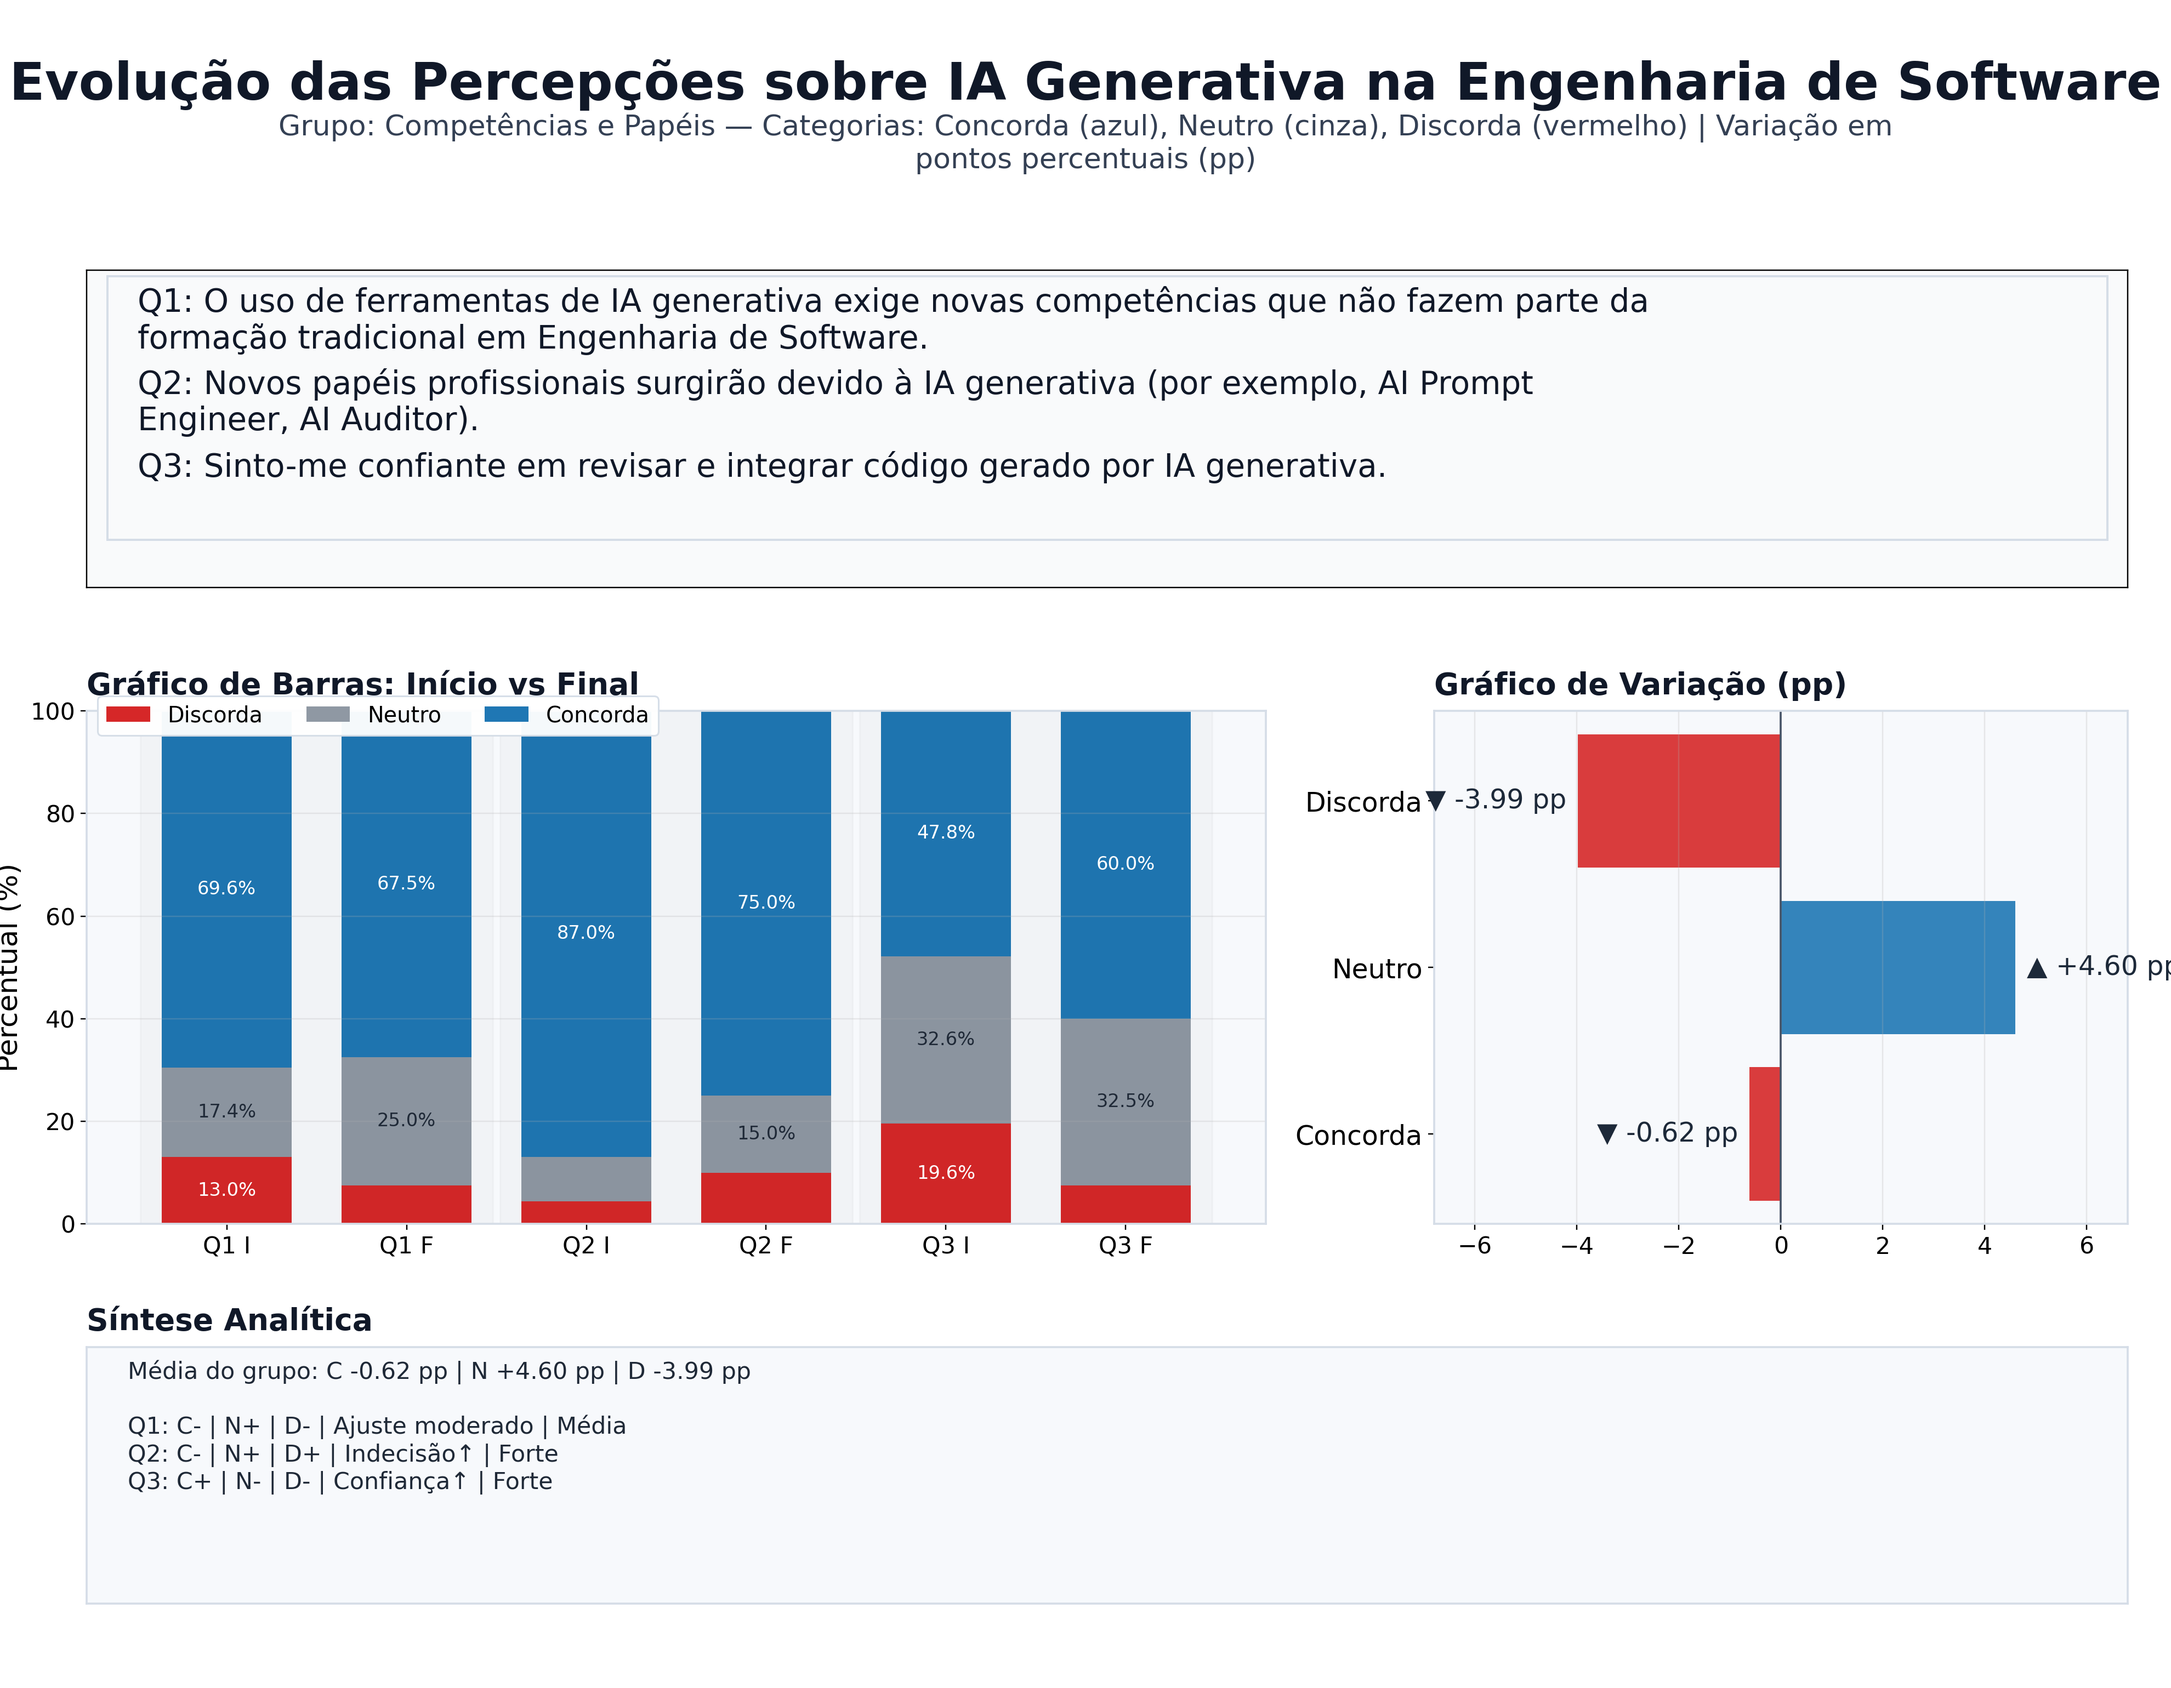
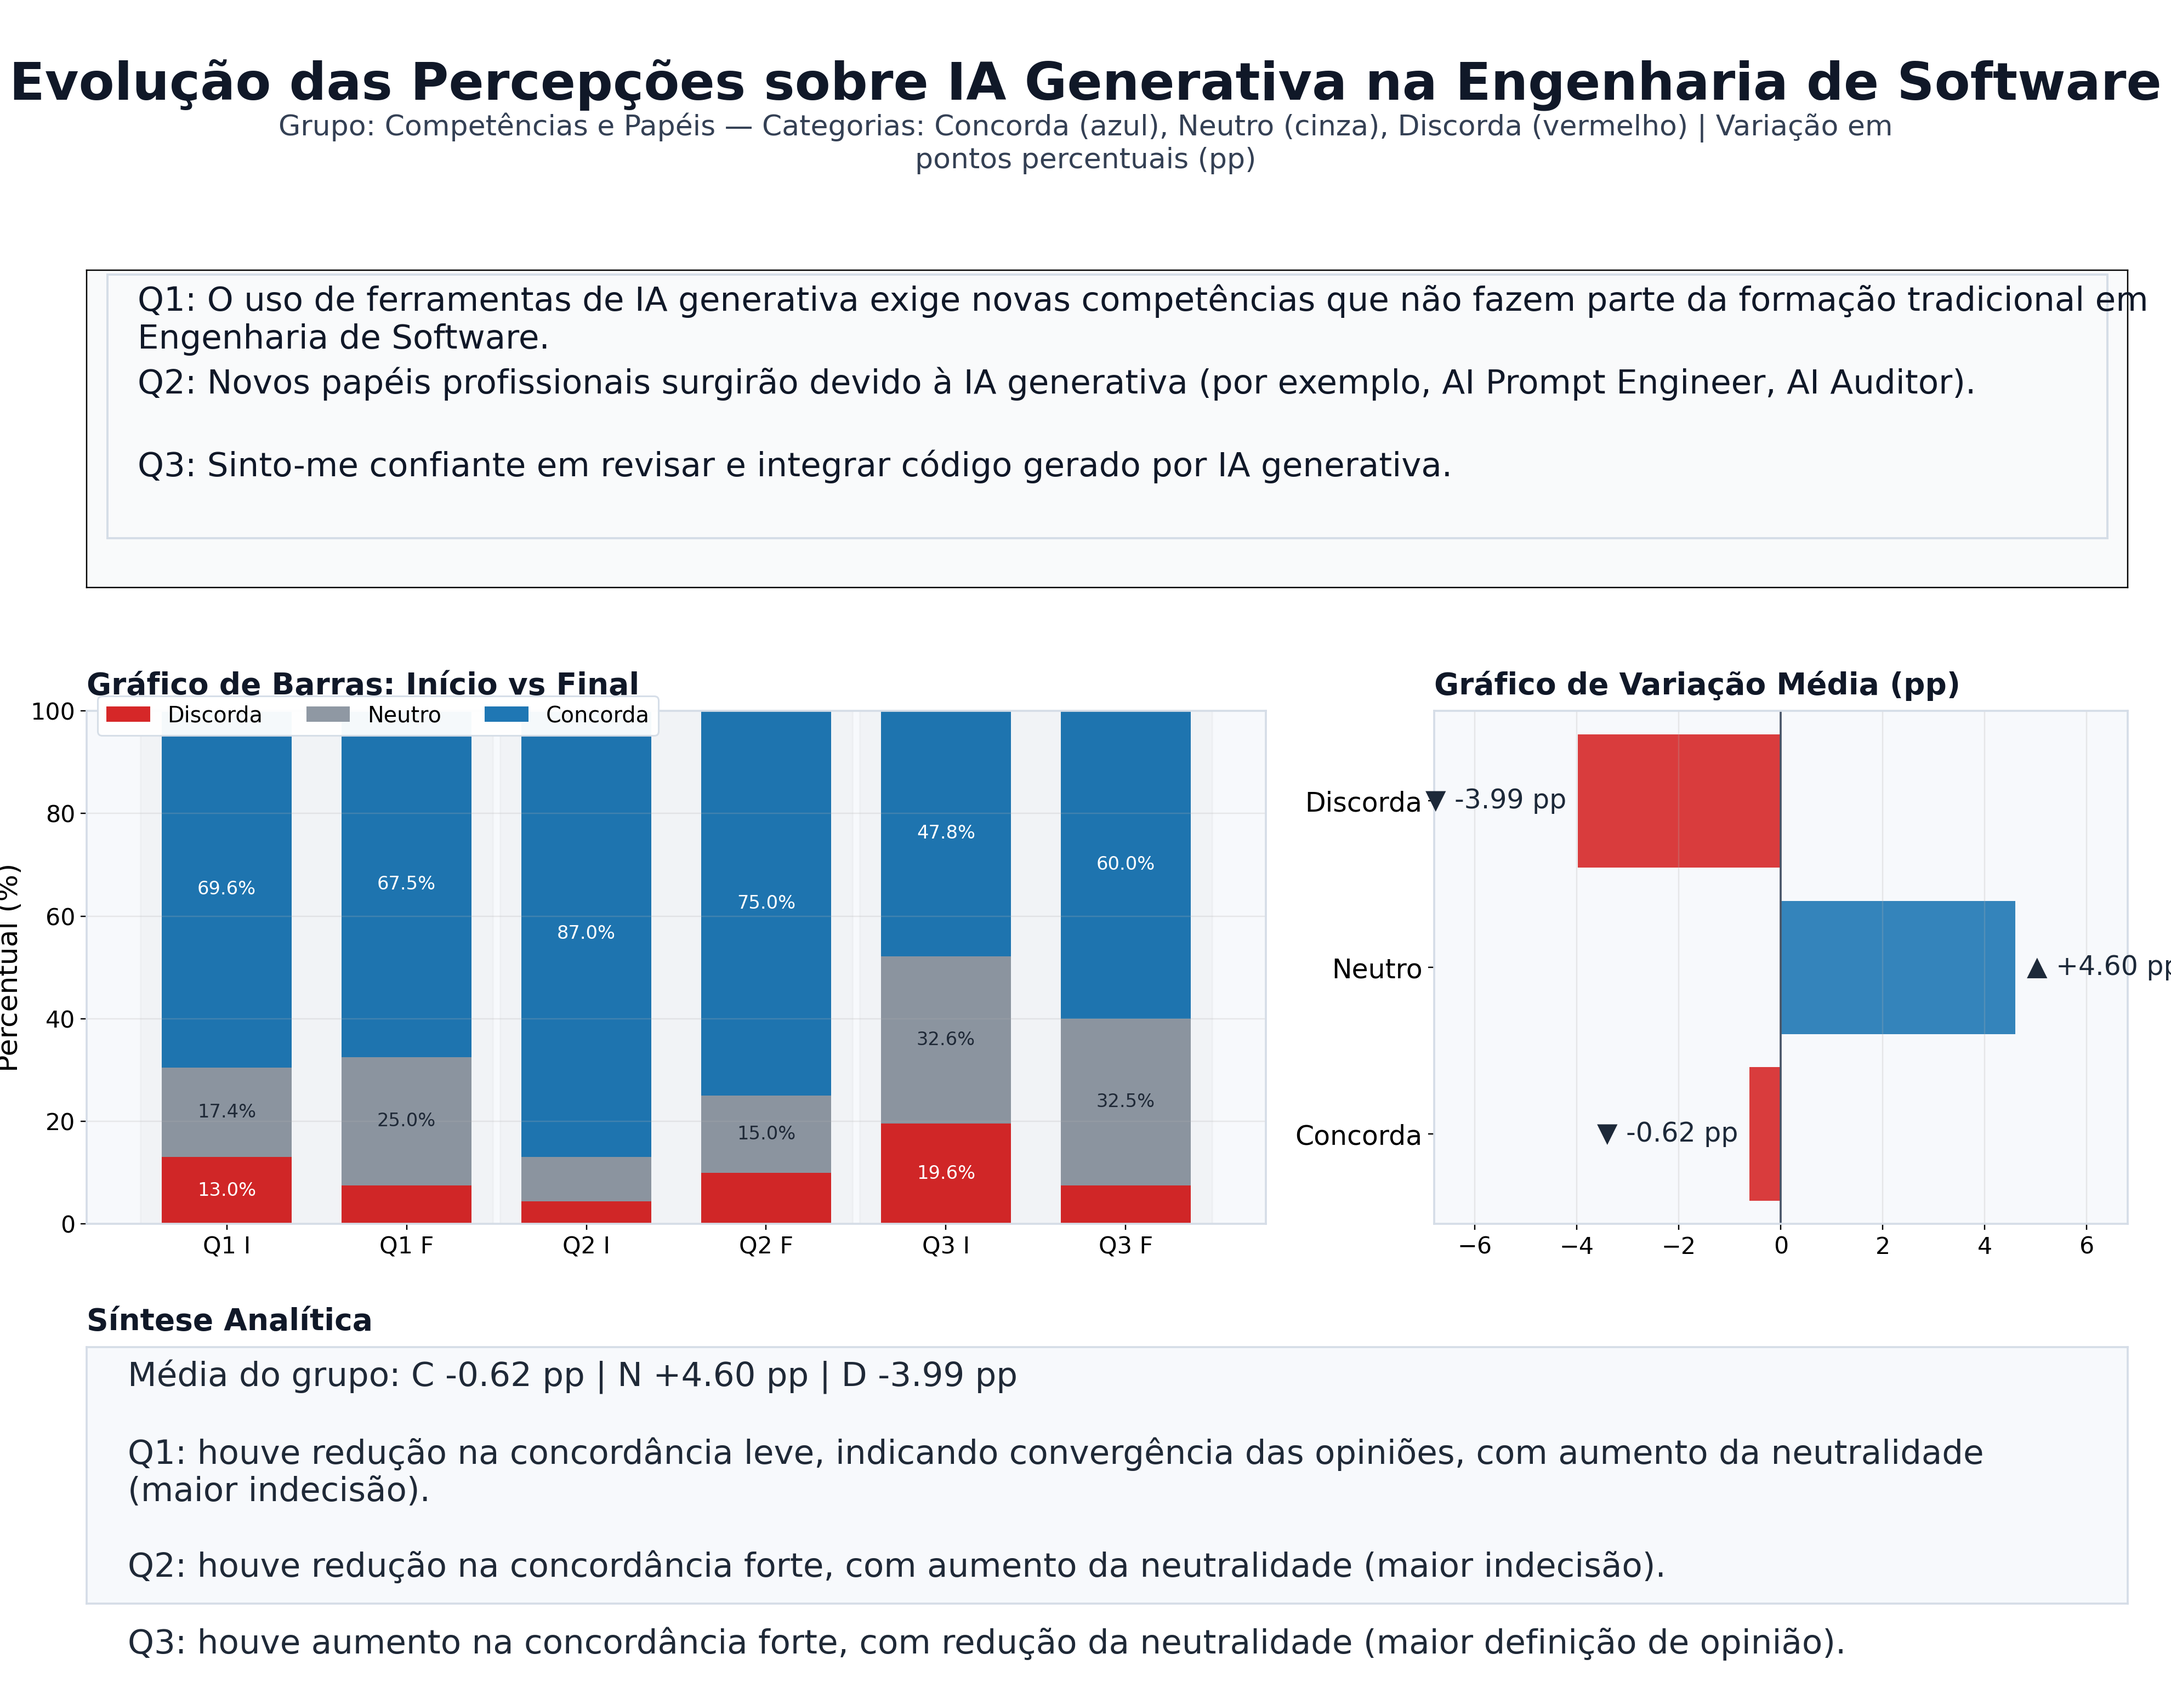
v5

diff --git a/serpro/generate_group_panels_v5.py b/serpro/generate_group_panels_v5.py
@@ -12,6 +12,7 @@ Saida:
 from __future__ import annotations
 
 import csv
+import re
 import textwrap
 import unicodedata
 from pathlib import Path
@@ -79,6 +80,22 @@ def wrap_lines(lines: list[str], width: int) -> list[str]:
     for line in lines:
         wrapped.extend(textwrap.wrap(line, width=width) or [line])
     return wrapped
+
+
+def clean_analysis_text(text: str) -> str:
+    """
+    Remove trechos de enunciado duplicados presentes em 'Análise'.
+    1) Exclui tudo que inicia em '##' e vai até imediatamente antes de 'Início do semestre'.
+    2) Mantém somente o trecho após a expressão-chave 'Análise:' (ou 'Analise:').
+    """
+    if not text:
+        return ""
+    cleaned = re.sub(r"##.*?(?=In[ií]cio do semestre)", "", text, flags=re.DOTALL)
+    match = re.search(r"An[aá]lise\s*:\s*(.*)", cleaned, flags=re.IGNORECASE | re.DOTALL)
+    if match:
+        cleaned = match.group(1)
+    cleaned = cleaned.strip(" \n:-")
+    return cleaned if cleaned else text.strip()
 
 
 def compact_question_map(rows: list[dict[str, str]], width: int = 130) -> str:
@@ -167,7 +184,7 @@ def build_group_panel(group_name: str, rows: list[dict[str, str]], output_file: 
     ax_syn = fig.add_subplot(grid[2])
 
     style_card(ax_main, "Gráfico de Barras: Início vs Final")
-    style_card(ax_var, "Gráfico de Variação (pp)")
+    style_card(ax_var, "Gráfico de Variação Média (pp)")
     style_card(ax_syn, "Síntese Analítica")
 
     start_dis = [parse_percent(r[COLS["inicio"]["discorda"]]) for r in rows]
@@ -267,22 +284,24 @@ def build_group_panel(group_name: str, rows: list[dict[str, str]], output_file: 
         spine.set_color(COLORS["border"])
         spine.set_linewidth(1.2)
 
-    idx_sorted = np.argsort([abs(parse_percent(r[COLS["variacao"]["concorda"]])) for r in rows])[::-1]
-    top_n = min(4, n_questions)
-    selected = sorted(idx_sorted[:top_n])
-
     header_lines = wrap_lines(
         [f"Média do grupo: C {avg_con:+.2f} pp | N {avg_neu:+.2f} pp | D {avg_dis:+.2f} pp"],
-        width=90,
+        width=100,
     )
 
-    lines = header_lines + [""]
-    for idx in selected:
-        lines.append(f"Q{idx + 1}: {keyword_trend(rows[idx])}")
-    if n_questions > top_n:
-        lines.append(f"+{n_questions - top_n} questão(ões) com padrão semelhante")
+    # Síntese agora exibe a íntegra da coluna \"Análise\" do CSV para cada questão.
+    lines: list[str] = header_lines + [""]
+    for idx, row in enumerate(rows):
+        analysis = row.get("Análise") or row.get("Analise") or ""
+        analysis = clean_analysis_text(analysis)
+        if not analysis:
+            continue
+        q_lines = wrap_lines([f"Q{idx + 1}: {analysis}"], width=110)
+        lines.extend(q_lines)
+        lines.append("")
 
-    lines = wrap_lines(lines, width=90)
+    if lines and lines[-1] == "":
+        lines.pop()
 
     ax_syn.text(
         0.02,
@@ -291,7 +310,7 @@ def build_group_panel(group_name: str, rows: list[dict[str, str]], output_file: 
         transform=ax_syn.transAxes,
         ha="left",
         va="top",
-        fontsize=14,
+        fontsize=20,
         color="#1f2937",
     )
 
@@ -329,9 +348,9 @@ def build_group_panel(group_name: str, rows: list[dict[str, str]], output_file: 
     ax_q.set_ylim(0, 1)
 
     # Área das questões mais alta e com fonte grande; caixa única ocupando toda a largura.
-    line_y = 0.95
+    line_y = 0.955
     gap = 0.26
-    text_width = 90
+    text_width = 120
 
     box_height = gap * n_questions + 0.05
     ax_q.add_patch(
@@ -355,7 +374,7 @@ def build_group_panel(group_name: str, rows: list[dict[str, str]], output_file: 
             wrapped,
             ha="left",
             va="top",
-            fontsize=19,
+            fontsize=20,
             color=COLORS["title"],
             bbox=None,
         )
